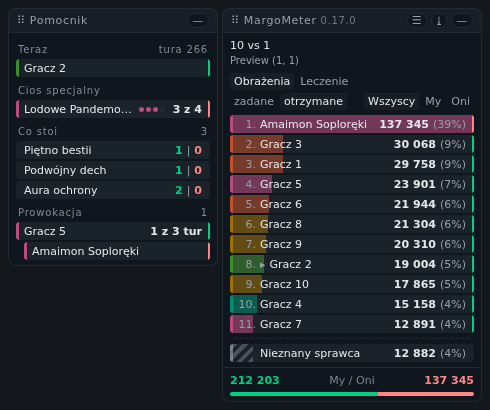
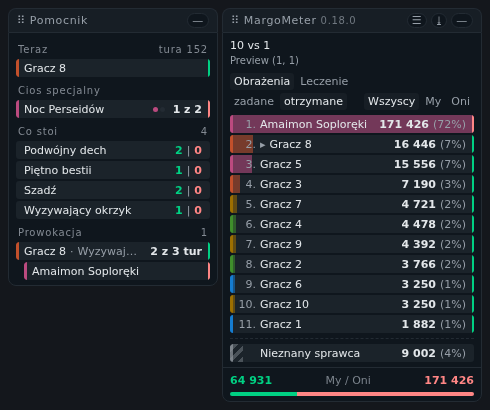
build(release): 0.18.0, the release a stranger can reach on their own
Sixteen entries under one number — three **Nowość**, two **Zmiana**, eleven
**Poprawka** — moved from `[Niewydane]` unchanged after the audit below corrected them.

What a player meets first is the way in. Until this release the published page was a
picker over thirty-four recordings and the READMEs were the only place that said what
has to be true before a userscript runs at all; now the page opens with the install —
what you need first, the button, the version behind it — and plays one fight beneath it
as the proof (**ADR 0099**). The same cycle gave the okrzyk its name beside whoever
threw it and a second row for the half that stands on the side rather than on a person
(**ADR 0097**), put a card on every row of the window beside the panel (**ADR 0100**),
and collapsed every deep wound into one counted row with what weakened them underneath
(**ADR 0095**).

The other half of the release is the panel staying up. A review of `src/` and `libs/`
found three failures a 0.17.0 reader could meet — a kept fight that would not replay,
a fight too long for the store, an opening payload that tripped a bound — each of which
took the whole panel down on every draw rather than costing one region. They are
entries because they shipped; the fourth thing that review fixed is not, because the
figure it corrected only began standing this cycle.

THE PICTURES. Taken again at the number they ship as, `--release`, so the bar says
[…]

diff --git a/CHANGELOG.md b/CHANGELOG.md
@@ -37,7 +37,7 @@ Wszystkie istotne zmiany w tym dodatku są tu notowane.
 > wszystko może się zmienić w każdej chwili. Do czasu `1.0.0` czytaj wpisy oznaczone **Zmiana**
 > przed aktualizacją.
 
-## [Niewydane]
+## [0.18.0] — 2026-09-21
 
 - **Nowość** — MargoMeter instaluje się teraz jednym kliknięciem ze strony z podglądem, która
   najpierw prowadzi przez to, bez czego nic nie ruszy: menedżer skryptów i przełącznik w Chrome i
